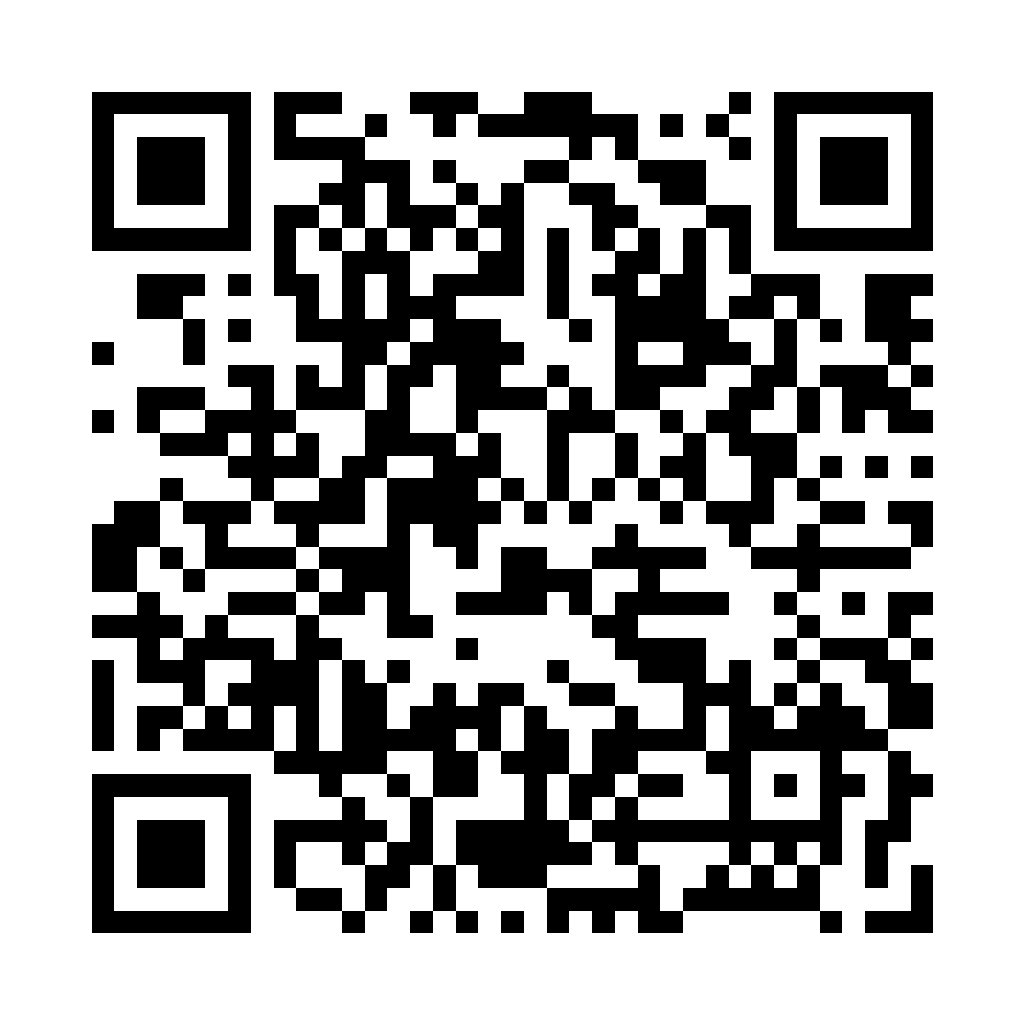
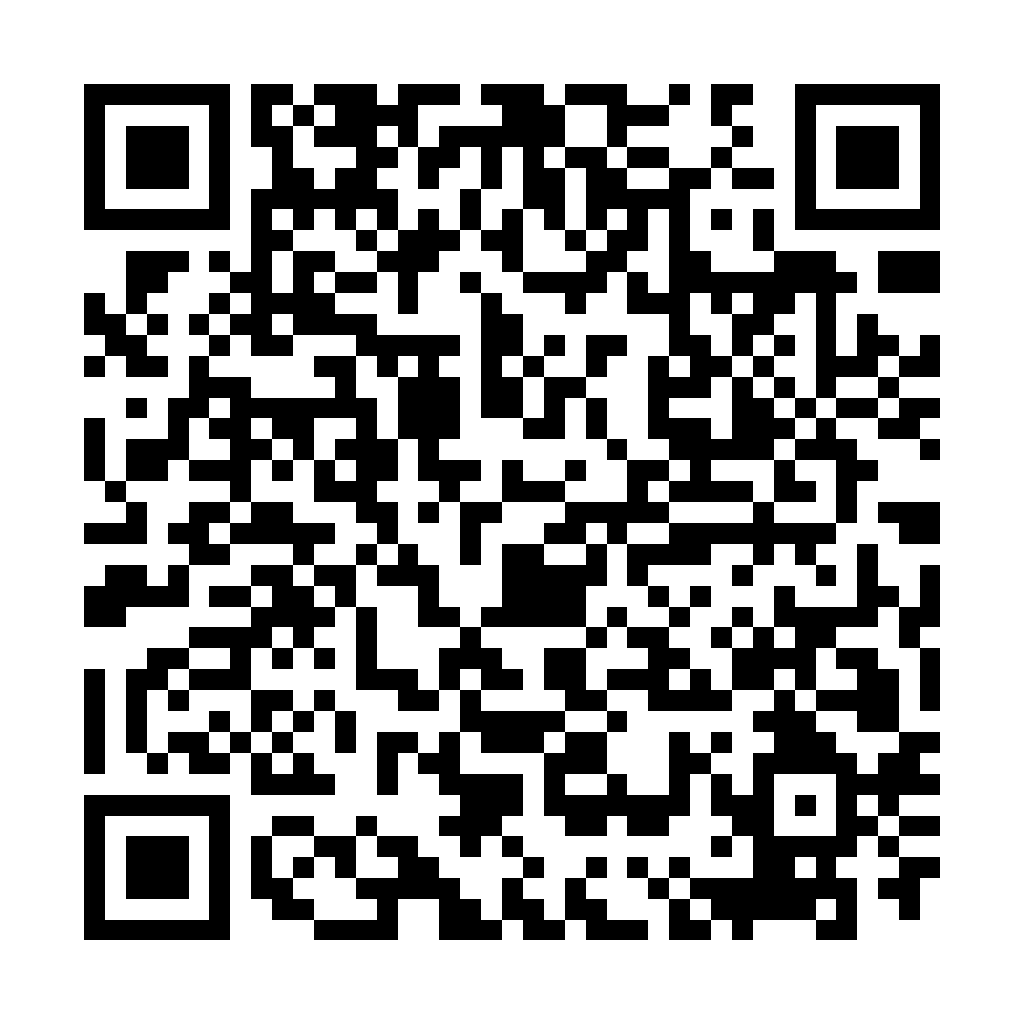
Fases em sequência e QR do livro em /livro-ar
- As fases liberam em sequência, como no Game Design: a 1 sempre; as outras
  depois de concluída a anterior. Escanear uma fase de mais adiante a marca
  como encontrada e avisa 'Termine a Fase N para jogar' (sem botão Jogar).
  Progresso salvo no celular (localStorage); ?progresso=zerar apaga; no
  modo jogo tudo fica liberado.
- O QR do livro passa a apontar para /livro-ar, que por enquanto só
  redireciona para a raiz do site. impressos/qr-livro regenerado.

diff --git a/testephaser/src/scenes/ArScanScene.js b/testephaser/src/scenes/ArScanScene.js
@@ -7,6 +7,7 @@ import { startPhase } from '../levels/startPhase.js';
 import { playSfx } from '../audio/sfx.js';
 import { onPadMenu } from '../input/gamepad.js';
 import { speak } from '../ui/speech.js';
+import { isUnlocked, markFound } from '../config/progress.js';
 
 // Modo livro: a câmera de realidade aumentada (ArScannerOverlay, por cima do
 // canvas). Achou a página → personagens animados → "Jogar" → a fase abre aqui
@@ -66,18 +67,34 @@ export default class ArScanScene extends Phaser.Scene {
 
   play(phase) {
     this.closeOverlay();
+    markFound(phase.number);
+    if (!isUnlocked(phase)) {
+      // pelo código de desenhos (a câmera já esconde o botão de jogar)
+      playSfx(this, 'comingSoon');
+      this.showMessage(
+        'Fase escondida!',
+        `Você achou a ${phase.title}.\nTermine a Fase ${phase.number - 1} para jogar.`,
+        `Você achou uma fase escondida! Termine a Fase ${phase.number - 1} para jogar.`
+      );
+      return;
+    }
     if (startPhase(this, phase)) {
       playSfx(this, 'confirm');
       return;
     }
     playSfx(this, 'comingSoon');
-    this.showComingSoon(phase);
+    this.showMessage(
+      phase.title,
+      'Essa fase ainda está em construção.\nVolte em breve!',
+      `A ${phase.title} ainda está em construção. Volte em breve!`
+    );
   }
 
-  showComingSoon(phase) {
+  // Tela de aviso (fase trancada ou em construção) com "escanear outra".
+  showMessage(title, text, spoken) {
     this.children.removeAll(true);
     this.add
-      .text(GAME_WIDTH / 2, 360, phase.title, {
+      .text(GAME_WIDTH / 2, 360, title, {
         fontFamily: 'monospace',
         fontSize: '96px',
         fontStyle: 'bold',
@@ -85,7 +102,7 @@ export default class ArScanScene extends Phaser.Scene {
       })
       .setOrigin(0.5);
     this.add
-      .text(GAME_WIDTH / 2, 490, 'Essa fase ainda está em construção.\nVolte em breve!', {
+      .text(GAME_WIDTH / 2, 490, text, {
         fontFamily: 'monospace',
         fontSize: '44px',
         color: '#ffffff',
@@ -93,7 +110,7 @@ export default class ArScanScene extends Phaser.Scene {
         lineSpacing: 10,
       })
       .setOrigin(0.5);
-    speak(`A ${phase.title} ainda está em construção. Volte em breve!`);
+    speak(spoken);
 
     const again = () => this.scene.restart();
     createButton(this, GAME_WIDTH / 2, 760, 'ESCANEAR OUTRA PÁGINA', again, { width: 820 });

diff --git a/testephaser/src/config/progress.js b/testephaser/src/config/progress.js
@@ -1,0 +1,64 @@
+import { isGameMode } from './mode.js';
+
+// Progresso da criança no livro, salvo no próprio celular (localStorage),
+// sem cadastro. As fases liberam em sequência: a 1 está sempre liberada e
+// cada uma das outras libera quando a anterior é concluída (as fases 1 e 2
+// são tutoriais e a dificuldade é progressiva — ver o Game Design).
+//
+// Escanear a página de uma fase ainda trancada marca a fase como
+// "encontrada" (para uma futura tela de progresso) e avisa que falta
+// terminar a anterior.
+//
+// No modo jogo (?modo=jogo) tudo fica liberado, para testar.
+// ?progresso=zerar apaga o progresso deste aparelho.
+
+const STORAGE_KEY = 'mortovivo-progresso';
+
+let state = load();
+
+function load() {
+  try {
+    if (new URLSearchParams(window.location.search).get('progresso') === 'zerar') {
+      window.localStorage.removeItem(STORAGE_KEY);
+    }
+    const saved = JSON.parse(window.localStorage.getItem(STORAGE_KEY));
+    return { found: saved?.found ?? [], completed: saved?.completed ?? [] };
+  } catch {
+    // localStorage indisponível (aba anônima etc.): progresso só nesta visita
+    return { found: [], completed: [] };
+  }
+}
+
+function save() {
+  try {
+    window.localStorage.setItem(STORAGE_KEY, JSON.stringify(state));
+  } catch {
+    // ignora: segue com o progresso só na memória
+  }
+}
+
+function add(list, number) {
+  if (!list.includes(number)) {
+    list.push(number);
+    save();
+  }
+}
+
+export function isCompleted(number) {
+  return state.completed.includes(number);
+}
+
+// A fase pode ser jogada? A 1 sempre; as outras, com a anterior concluída.
+export function isUnlocked(phase) {
+  if (isGameMode() || phase.number <= 1) return true;
+  return isCompleted(phase.number - 1);
+}
+
+export function markFound(number) {
+  add(state.found, number);
+}
+
+export function markCompleted(number) {
+  add(state.found, number);
+  add(state.completed, number);
+}

diff --git a/testephaser/src/ar/ArScannerOverlay.js b/testephaser/src/ar/ArScannerOverlay.js
@@ -2,6 +2,7 @@ import { PHASES } from '../config/phases.js';
 import { symbolSvg } from '../config/symbols.js';
 import { speak, canSpeak } from '../ui/speech.js';
 import { targetsUrl, targets, scenes, animations } from './arContent.js';
+import { isUnlocked, markFound } from '../config/progress.js';
 import './ar.css';
 
 // Câmera de realidade aumentada (MindAR + three.js): camada HTML por cima do
@@ -189,13 +190,23 @@ export default class ArScannerOverlay {
       if (!holder.shown) appear.at = performance.now();
       holder.shown = true;
       if (!phase) return;
+      markFound(phase.number);
+      const unlocked = isUnlocked(phase);
       if (this.foundPhase !== phase) {
         this.onSound?.('scanOk');
-        this.say(`Você achou a ${phase.title}! Toque em Jogar.`, { status: `Você achou a ${phase.title}!` });
+        if (unlocked) {
+          this.say(`Você achou a ${phase.title}! Toque em Jogar.`, { status: `Você achou a ${phase.title}!` });
+        } else {
+          // fase de mais adiante: fica "encontrada", mas só abre depois da anterior
+          this.say(
+            `Você achou uma fase escondida! Termine a Fase ${phase.number - 1} para jogar.`,
+            { status: `Fase escondida! Termine a Fase ${phase.number - 1} para jogar.` }
+          );
+        }
       }
       this.foundPhase = phase;
       this.playButton.textContent = `▶ Jogar a ${phase.title}`;
-      this.playButton.hidden = false;
+      this.playButton.hidden = !unlocked;
     };
     // a página saiu da tela: personagens e botão de jogar ficam (tremer a
     // mão não pode tirar a fase da criança); só somem com toque na tela ou X

diff --git a/testephaser/src/scenes/PlayScene.js b/testephaser/src/scenes/PlayScene.js
@@ -28,6 +28,7 @@ import { isTouchEnabled } from './TouchControlsScene.js';
 import { playSfx } from '../audio/sfx.js';
 import { PadReader, PAD } from '../input/gamepad.js';
 import { isGameMode, scanSceneKey } from '../config/mode.js';
+import { markCompleted } from '../config/progress.js';
 
 // Joga qualquer fase no formato do editor (tiles + decorações + peças de
 // mecânica, ver entityCatalog). As fases oficiais (src/levels/data) e o
@@ -1447,6 +1448,8 @@ export default class PlayScene extends Phaser.Scene {
     if (this.levelComplete) return;
     this.levelComplete = true;
     this.physics.pause();
+    // libera a próxima fase (no teste do editor não há fase do livro)
+    if (this.phase && !this.returnTo) markCompleted(this.phase.number);
     playSfx(this, 'win');
     this.hud.showLevelComplete();
   }

diff --git a/testephaser/src/scenes/HudScene.js b/testephaser/src/scenes/HudScene.js
@@ -88,7 +88,14 @@ export default class HudScene extends Phaser.Scene {
         ? ['PRÓXIMA FASE', () => play.leaveTo('Scan'), 460]
         : ['ESCANEAR OUTRA PÁGINA', () => play.leaveTo(scanSceneKey()), 820];
     createButton(this, GAME_WIDTH / 2, GAME_HEIGHT / 2 + 90, label, next, { width });
-    if (!this.isEditorTest && !isGameMode()) speak('Fase concluída! Muito bem! Escaneie outra página do livro.');
+    if (!this.isEditorTest && !isGameMode()) {
+      const number = play.phase?.number;
+      speak(
+        number
+          ? `Fase concluída! Muito bem! Agora procure a Fase ${number + 1} no livro.`
+          : 'Fase concluída! Muito bem! Escaneie outra página do livro.'
+      );
+    }
     // controle: A confirma o botão
     onPadMenu(this, {
       onConfirm: () => {

diff --git a/testephaser/public/livro-ar/index.html b/testephaser/public/livro-ar/index.html
@@ -1,5 +1,7 @@
 <!doctype html>
-<!-- Endereço impresso no QR code do livro: /livro. Abre o app no modo livro.
+<!-- Endereço impresso no QR code do livro: /livro-ar.
+     No momento, ele só redireciona para a raiz do site
+     (mortovivo.cristiancobra.com.br), que abre o app no modo livro.
      Fica separado da raiz de propósito: se um dia a raiz virar outra coisa
      (um jogo maior, por exemplo), basta trocar este redirecionamento e os
      livros já impressos continuam funcionando. Caminho relativo: funciona

diff --git a/Docs/livro-com-realidade-aumentada.md b/Docs/livro-com-realidade-aumentada.md
@@ -10,8 +10,10 @@ fazer o próprio livro.
 
 ## O fluxo da criança
 
-1. **Um único QR code no livro** (contracapa ou guarda) abre
-   `https://mortovivo.cristiancobra.com.br/livro` na câmera normal do celular.
+1. **Um único QR code no livro** (capa ou contracapa) abre
+   `https://mortovivo.cristiancobra.com.br/livro-ar` na câmera normal do
+   celular. Por enquanto esse endereço só redireciona para
+   `https://mortovivo.cristiancobra.com.br`.
 2. **Tela "Começar".** É um botão grande só. O toque libera de uma vez o som, a
    voz, a tela cheia com o celular deitado (no Android) e a câmera.
 3. **Câmera de realidade aumentada.** A criança aponta para qualquer página com
@@ -19,6 +21,13 @@ fazer o próprio livro.
    aparece o botão **▶ Jogar a Fase N**. Uma voz lê as instruções.
 4. **A fase abre na hora, sem recarregar a página.** A câmera desliga.
 5. **Fase concluída:** o botão **Escanear outra página** volta para a câmera.
+
+As fases liberam **em sequência**: as fases 1 e 2 são tutoriais e a
+dificuldade é progressiva. Se a criança escanear a página de uma fase de mais
+adiante, a fase fica marcada como encontrada e aparece "Você achou uma fase
+escondida! Termine a fase anterior para jogar". O progresso fica salvo no
+próprio celular, sem cadastro. Para testar do zero, abra o site com
+`?progresso=zerar`.
 
 Para não ter que girar o celular no meio do caminho, o app é usado deitado do
 começo ao fim. No iPhone, que não deixa o site travar a tela, aparece o aviso
@@ -51,12 +60,13 @@ app foi pensado para elas:
 ## Sem o livro, não tem jogo
 
 No modo livro (o padrão) não existe menu nem lista de fases. A fase só abre
-pela página do livro, seja pela câmera ou pelos desenhos impressos nela.
+pela página do livro, seja pela câmera ou pelos desenhos impressos nela, e só
+depois de concluída a anterior.
 
 ### Modo jogo (oculto)
 
 O menu, o tutorial, o leitor de QR, os links `?fase=<código>` e o editor
-continuam no código, no **modo jogo**. Ele serve para desenvolver e para uma
+continuam no código, no **modo jogo**, com todas as fases liberadas. Ele serve para desenvolver e para uma
 futura versão "jogo" do projeto:
 
 - **Neste aparelho:** abra o site com `?modo=jogo`. O navegador lembra; para
@@ -65,12 +75,13 @@ futura versão "jogo" do projeto:
   jogo como padrão.
 - O editor continua abrindo direto por `?scene=editor`.
 
-## Por que o endereço é fixo (/livro)
+## Por que o endereço é fixo (/livro-ar)
 
 O endereço impresso no QR não pode mudar nunca: o livro já estará na mão das
-crianças. Por isso o QR aponta para `/livro`, e não para a raiz. Se um dia a
+crianças. Por isso o QR aponta para `/livro-ar`, e não para a raiz. Por
+enquanto, `/livro-ar` só redireciona para a raiz. Se um dia a
 raiz do site virar outra coisa, por exemplo um jogo maior, basta mudar o que
-`/livro` abre (`testephaser/public/livro/index.html`).
+`/livro-ar` abre (`testephaser/public/livro-ar/index.html`).
 
 O site fica num subdomínio de um servidor que já existe por outros motivos.
 Assim, depois que o projeto e a verba acabarem, ele continua no ar sem custo de
@@ -118,7 +129,7 @@ Tudo o que muda de um livro para outro fica em `testephaser/ar/` e em
 5. **Material impresso.** Gere o QR do livro e os desenhos de cada página:
 
    ```bash
-   npm run simbolos -- --url https://seu-endereco/livro
+   npm run simbolos -- --url https://seu-endereco/livro-ar
    ```
 
    Os arquivos saem em `testephaser/impressos/`. O QR vai na contracapa e os
